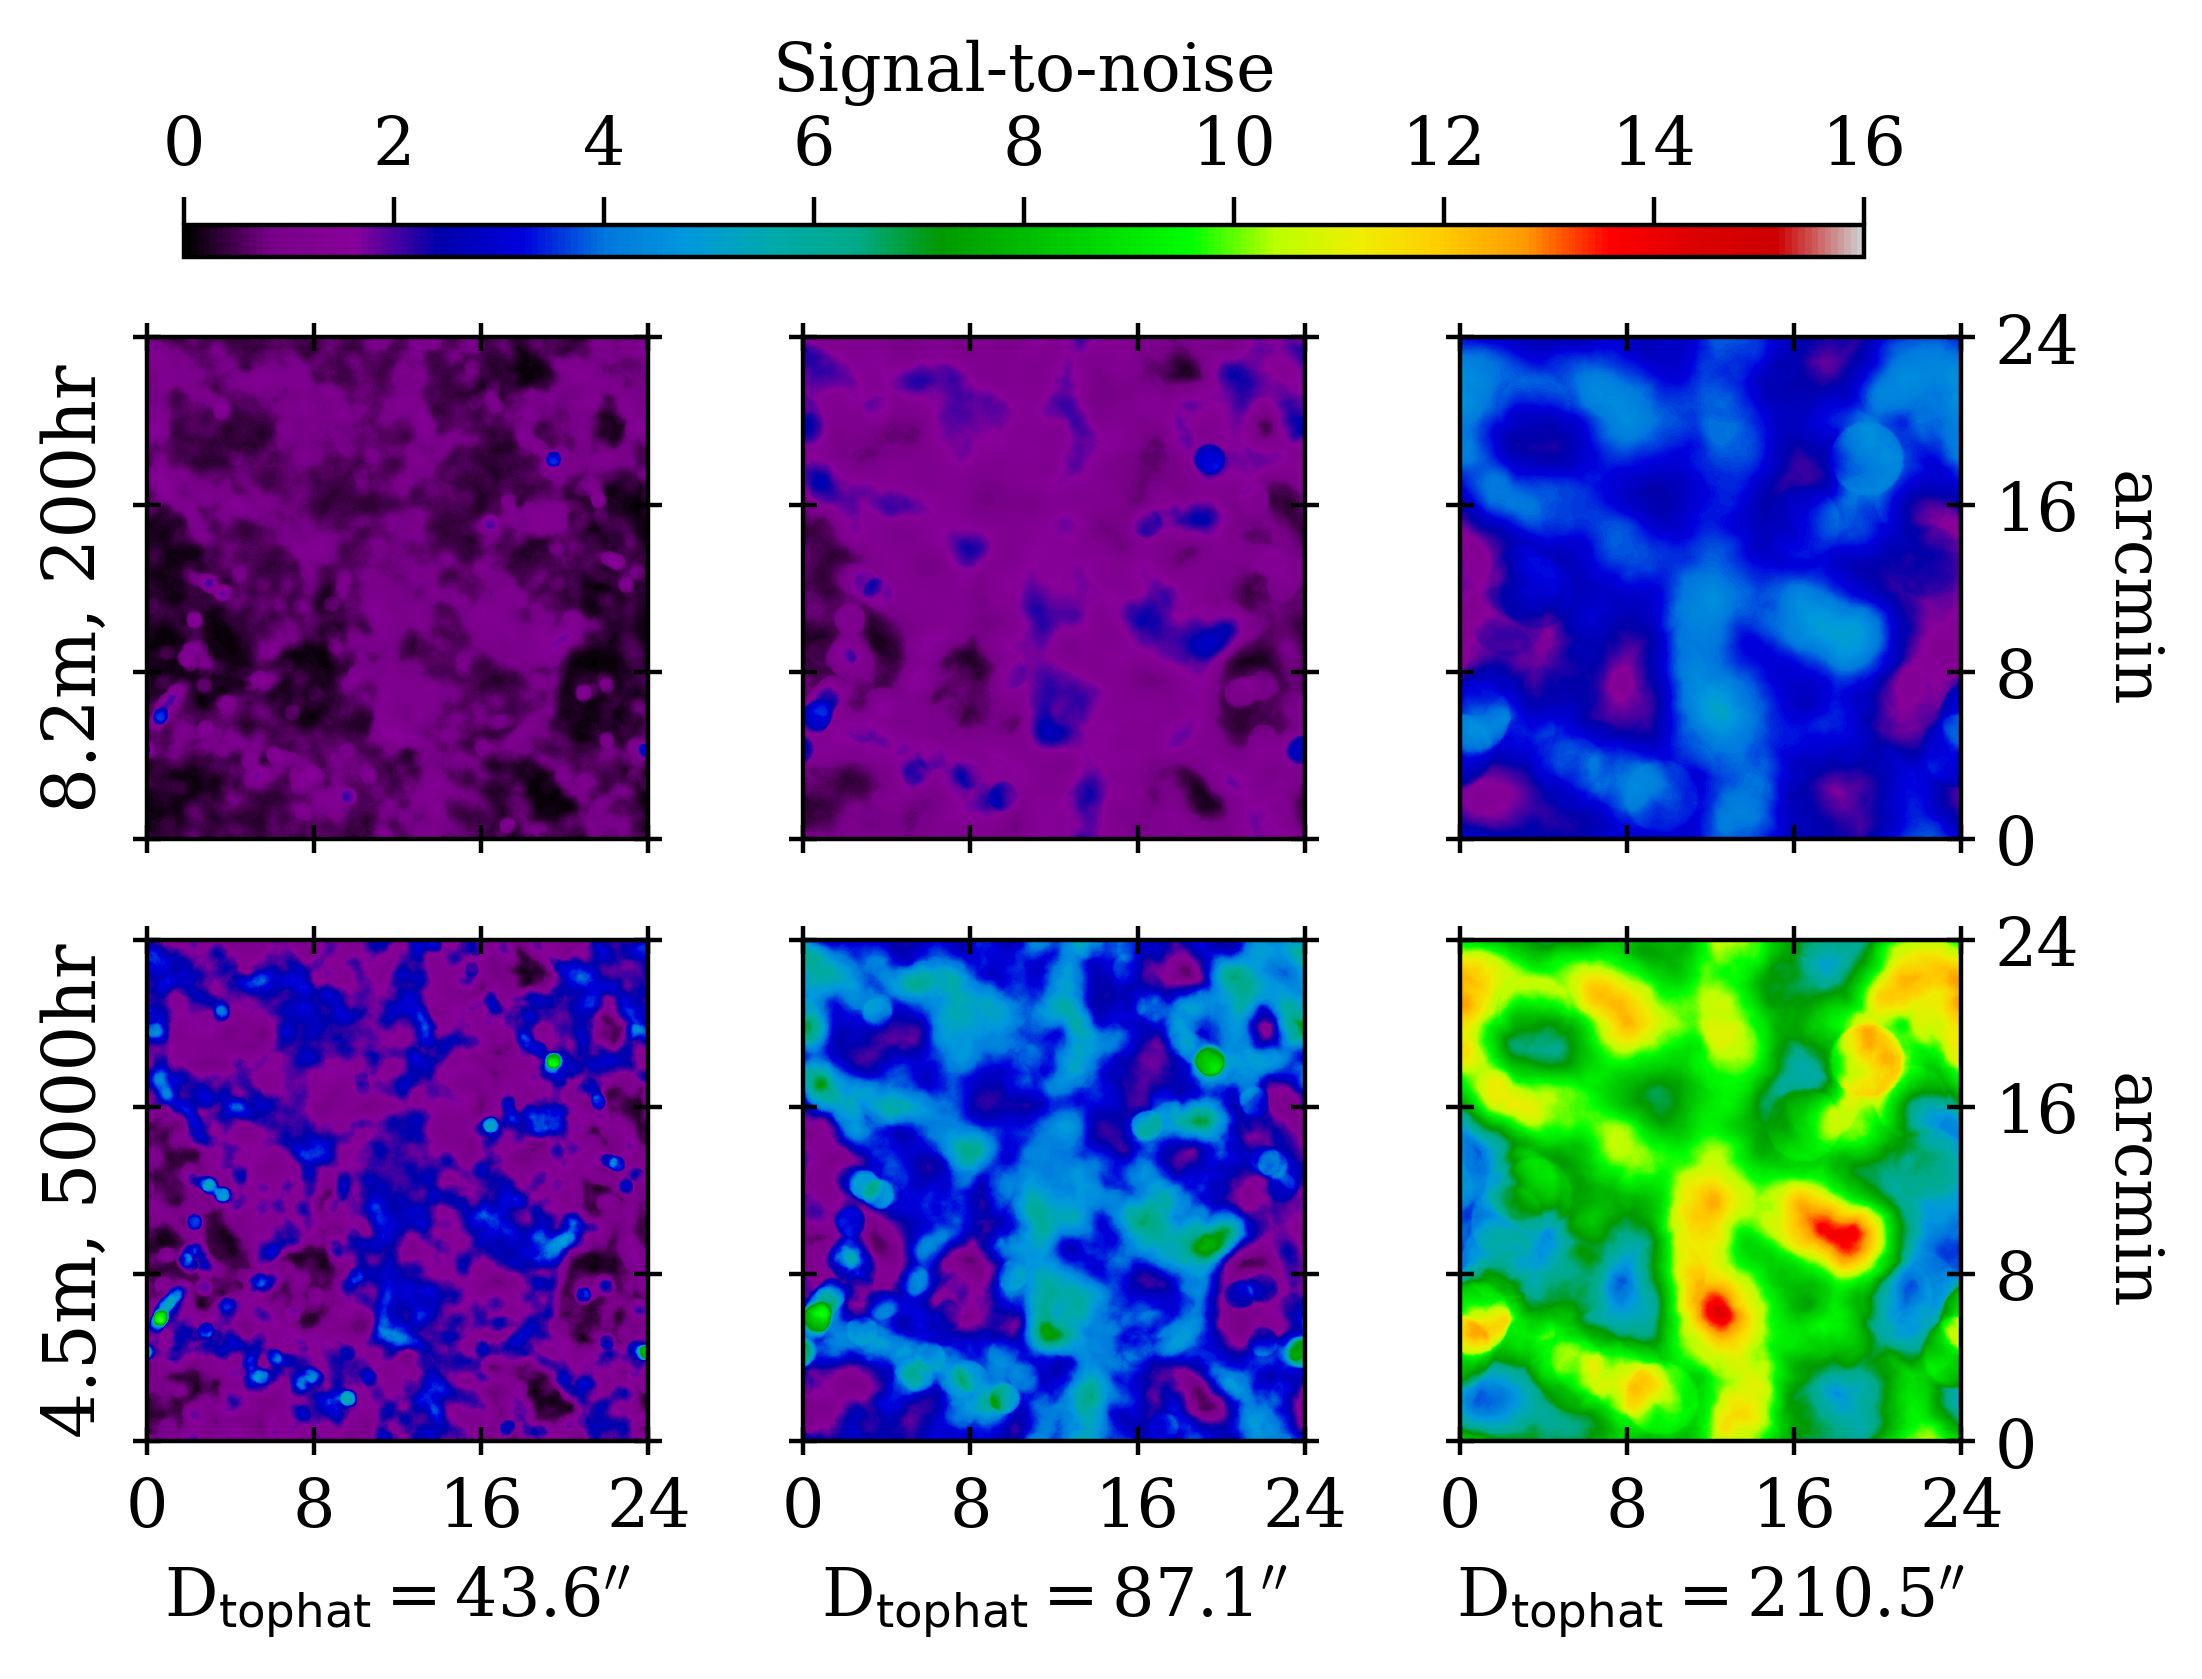
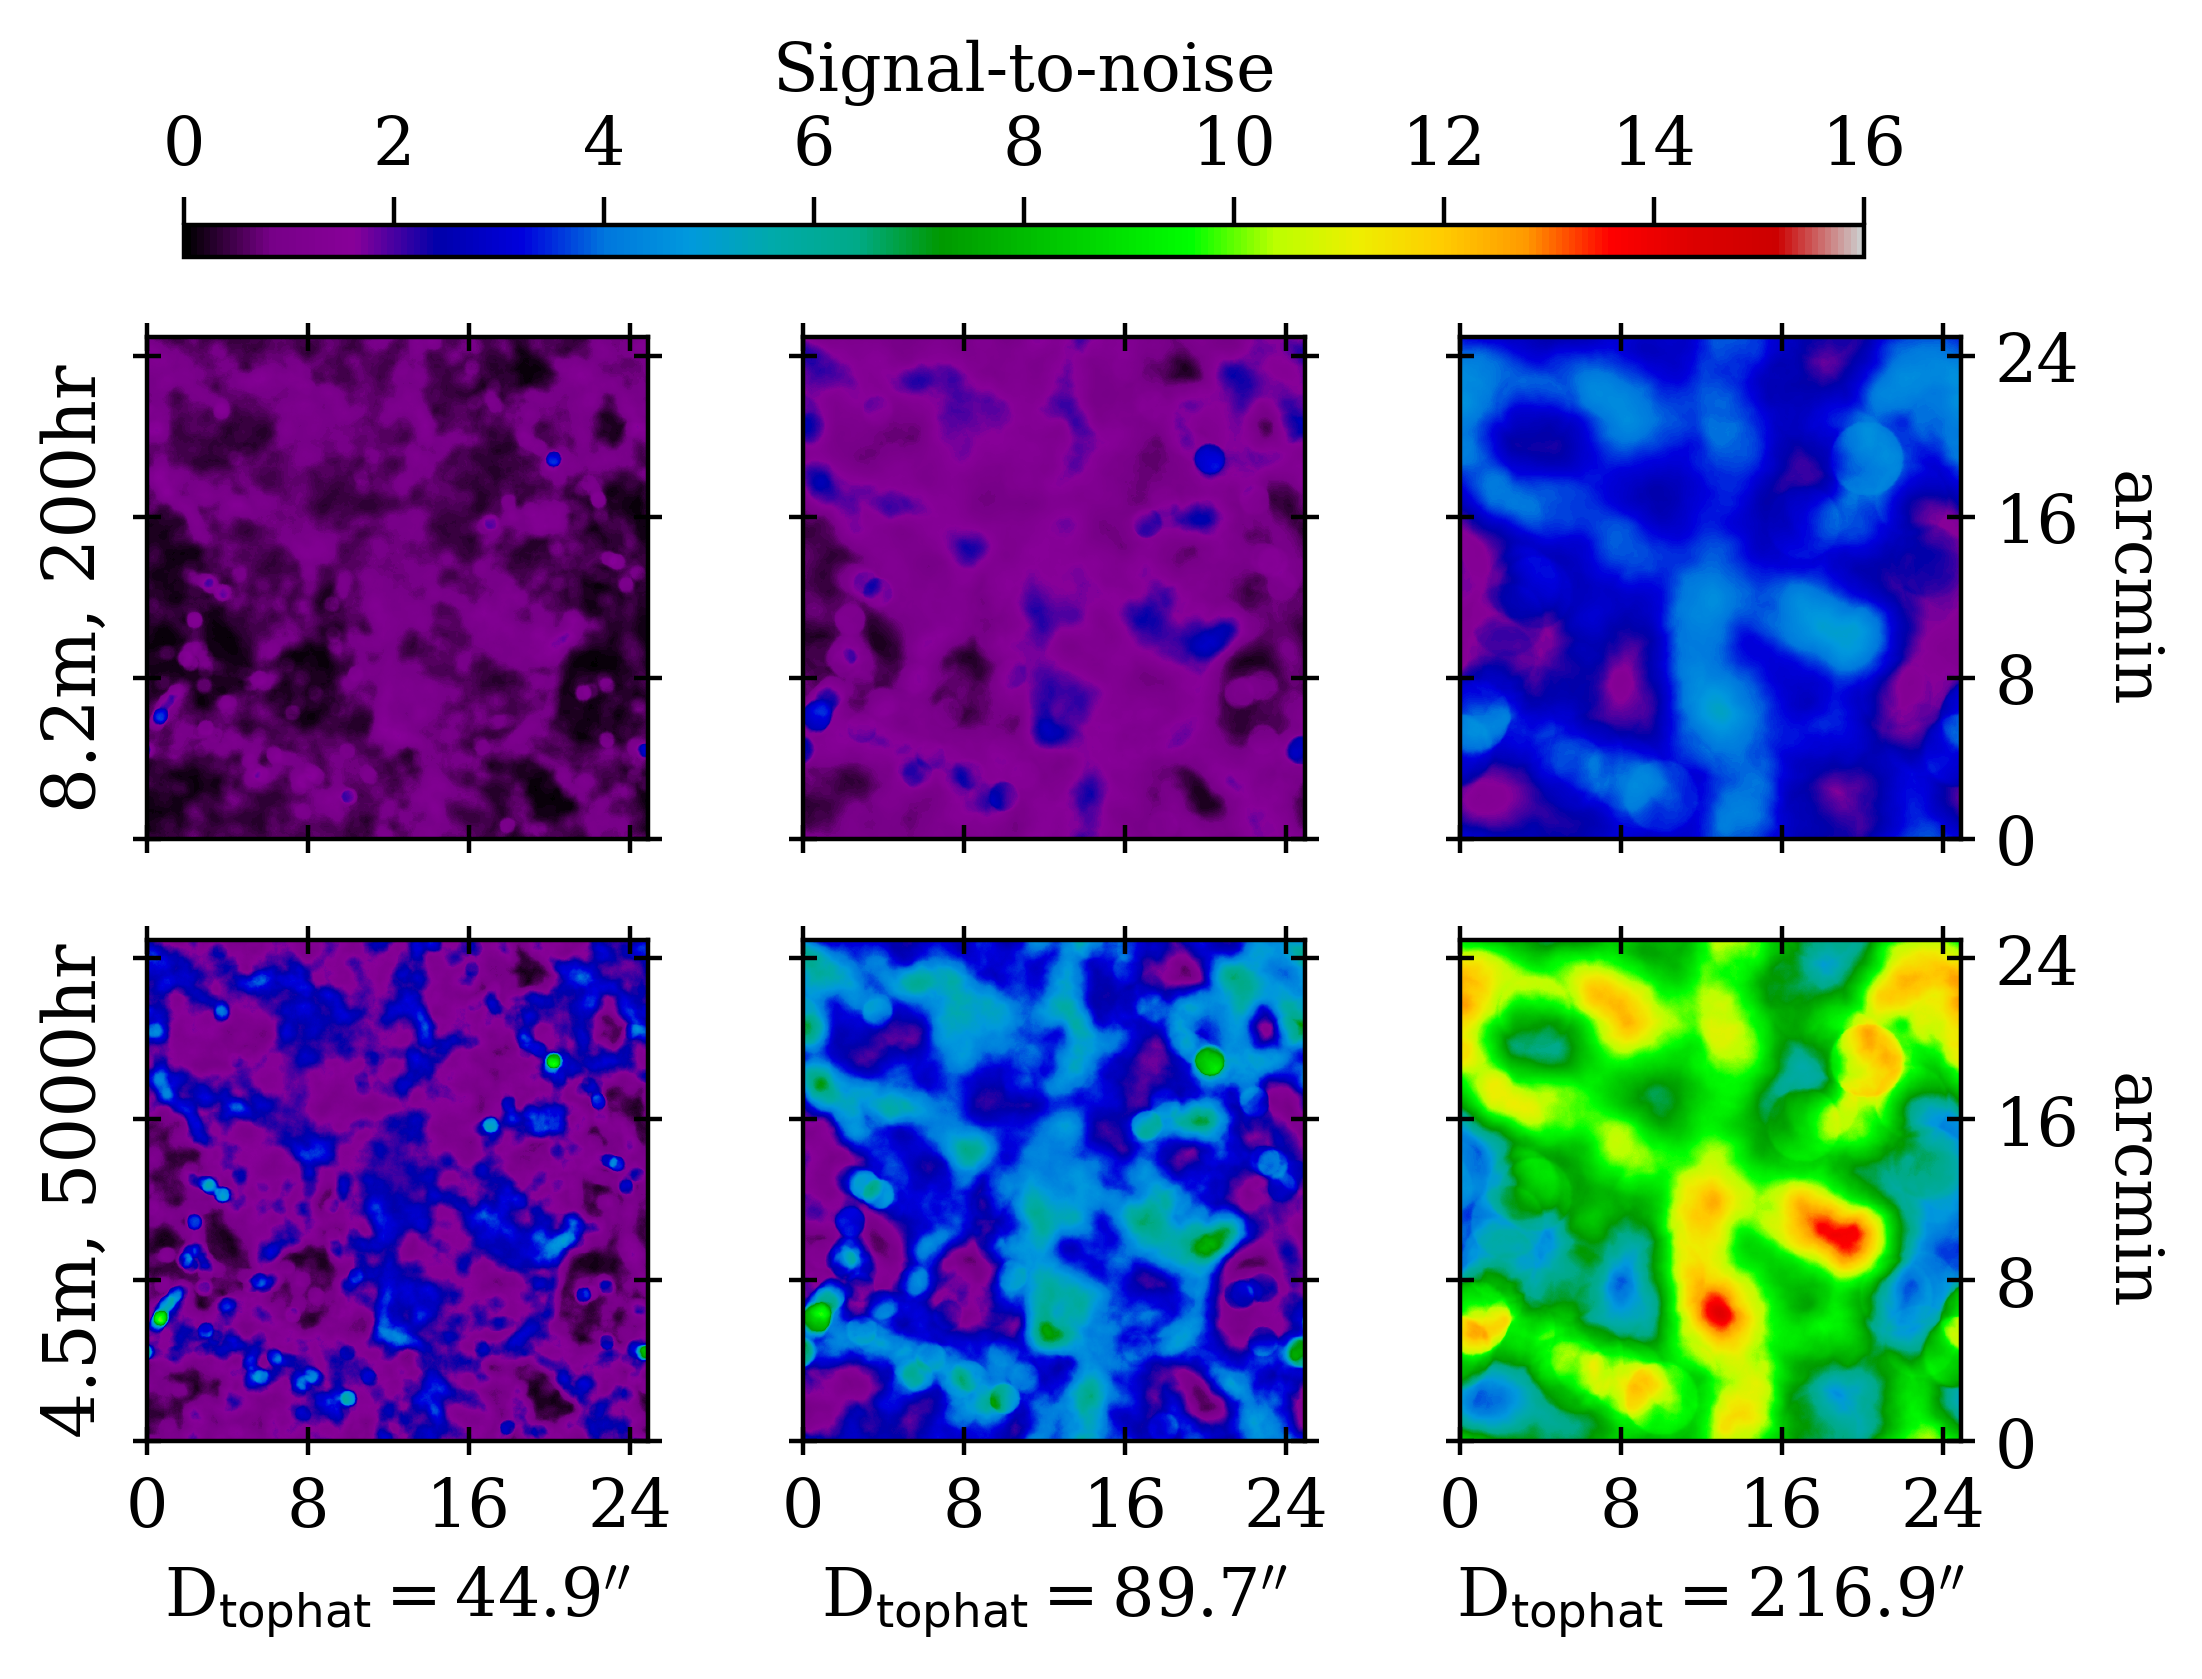
adding contours to some of the maps and increasing precision on pixel-to-arcsec conversion

diff --git a/mock18_binned_scopes.py b/mock18_binned_scopes.py
@@ -35,6 +35,7 @@ sim_depth = 40 #mpc/h
 index = int(nb_depth/sim_depth*Ngas+0.5)
 sr_to_arcsec2 = 4.25e+10
 cell_size = 40/Ngas*1000/0.68/(1+5.7)*3.086e+21
+pix_sz_arcsec = 3.7392
 
 #path for post-LyaRT SB with more rapid, hard alpha model
 dataCubeDir = "data/march/"
@@ -54,12 +55,18 @@ nrows = len(scope_list)
 fig,ax=plt.subplots(ncols=ncols,nrows=nrows,figsize=(8,4))
 
 #formatting for the plot
+
+pix_arr = np.linspace(0,Ngas-1,Ngas)
+theta_arcmin = pix_sz_arcsec*Ngas / 60
+theta_arr = np.linspace(0,theta_arcmin,Ngas)
+labels = [ 0,  8, 16, 24] #arcmin labels
+ticks = [int(np.interp(i,theta_arr,pix_arr)+0.5) for i in labels]
 for i in range(nrows):
     for j in range(ncols):
         ax[i,j].set_xlim(0,Ngas-1)
         ax[i,j].set_ylim(0,Ngas-1)
-        ticks = np.linspace(0,Ngas-1,4)
-        labels = np.asarray(np.linspace(0,24,4),int)
+        # ticks = np.linspace(0,Ngas-1,4)
+        # labels = np.asarray(np.linspace(0,24,4),int)
         ax[i,j].scatter(x=[Ngas/2],y=[Ngas/2],s=25,marker="+",color="red",alpha=0.5)
         ax[i,j].set_xticks(ticks=ticks)
         ax[i,j].set_xticklabels(labels)
@@ -90,6 +97,23 @@ for i in range(1,nrows): #scopes
         ax[i,j+1].imshow(background, cmap=cm.binary,origin='lower',vmin=vmin,vmax=vmax)
         print(f"(D,t) = ({D_m:.1f},{texp_hr:d}), Kernel: {kernels[j//2]:d}, vmin: {int(vmin):d}, vmax: {int(vmax):d}")
 
+### ADDING CONTOURS TO INTRINSIC MAPS
+dataCubePath_onlyIF = "data/sept2024/out_cube_Nphot600000.npy"
+D_m,texp_hr = scope_list[0]
+filter_kernel = 25
+np.random.seed(seed)
+_, intrinsic_onlyIF = make_mock_maps(dataCubePath=dataCubePath_onlyIF, D_m=D_m,texp_hr=texp_hr,
+            Ngas=Ngas,add_noise=False)
+min_pix_value = np.min(intrinsic_onlyIF)+0.01
+intrinsic_onlyIF += min_pix_value
+intrinsic_onlyIF = gaussian_filter(intrinsic_onlyIF, sigma=filter_kernel,mode='wrap')
+percentiles = [70, 90]
+levels = np.percentile(intrinsic_onlyIF, percentiles)
+# im0 = ax[0,0].imshow(intrinsic_onlyIF,origin='lower',cmap=cm.binary,
+#     vmin=np.percentile(intrinsic_onlyIF,1),vmax=np.percentile(intrinsic_onlyIF,95),extent=[0,24,0,24])
+# contours = ax[0,0].contour(intrinsic_onlyIF,levels=levels,extent=[0,24,0,24],linestyles=['--', '-'],colors='red')
+
+
 ### intrinsic maps (first row)
 for j in range(0,ncols,2):
     D_m,texp_hr = scope_list[0]
@@ -99,10 +123,18 @@ for j in range(0,ncols,2):
     intrinsic_map = gaussian_filter(signal_only, sigma=kernels[j//2],mode='wrap')
 
     ax[0,j].imshow(intrinsic_map, cmap=cm.binary,origin='lower')  #vmin and vmax don't matter. We just want a to visualize the intrinsic signal
+
+    # im = ax[0,j].imshow(intrinsic_onlyIF,origin='lower',cmap=cm.binary,
+    #     vmin=np.percentile(intrinsic_onlyIF,1),vmax=np.percentile(intrinsic_onlyIF,95))
+    contours = ax[0,j].contour(intrinsic_onlyIF,levels=levels,linestyles=['-.', '-'],colors='red',alpha=0.8,linewidths=0.5)
+
     fig.delaxes(ax[0, j+1])
 
+
+
+
 for j in range(0,ncols,2):
-    kernel_arcsec = kernels[j//2]*3.63 #pixel scale in arcsec
+    kernel_arcsec = kernels[j//2]*pix_sz_arcsec #pixel scale in arcsec
     x_start = 400  # x-coordinate for the start of the bracket
     y_start = 440    # y-coordinate for the start of the bracket
     x_end = x_start    # x-coordinate for the end of the bracket

diff --git a/SNR_binned_scopes.py b/SNR_binned_scopes.py
@@ -32,6 +32,14 @@ seed = 12346
 kernels = [5,10,25]
 im_list = []
 
+#formatting
+pix_sz_arcsec = 3.7392
+pix_arr = np.linspace(0,Ngas-1,Ngas)
+theta_arcmin = pix_sz_arcsec*Ngas / 60
+theta_arr = np.linspace(0,theta_arcmin,Ngas)
+labels = [ 0,  8, 16, 24] #arcmin labels
+ticks = [int(np.interp(i,theta_arr,pix_arr)+0.5) for i in labels]
+
 nrows = len(scope_list)
 ncols = len(kernels)
 
@@ -45,7 +53,7 @@ for i in range(nrows): #different kernels (2)
 
 
         radius = int(np.sqrt(2*np.log(2))*kernels[j]+0.5) #FWHM/2
-        FWHM_arcsec = radius*2*3.63
+        FWHM_arcsec = radius*2*pix_sz_arcsec
         ax[-1,j].set_xlabel(r"D$_\mathrm{tophat}=$"+f"{FWHM_arcsec:.1f}"+r"$''$")#,rotation=-90,labelpad=15)
 
         signal_only,pixels_in_kernel = convolve_with_circular_tophat(signal_only,radius=radius)
@@ -58,8 +66,8 @@ for i in range(nrows): #different kernels (2)
         #formatting
         ax[i,j].set_xlim(0,Ngas-1)
         ax[i,j].set_ylim(0,Ngas-1)
-        ticks = np.linspace(0,Ngas-1,4)
-        labels = np.asarray(np.linspace(0,24,4),int)
+        # ticks = np.linspace(0,Ngas-1,4)
+        # labels = np.asarray(np.linspace(0,24,4),int)
         ax[i,j].set_xticks(ticks=ticks)
         ax[i,j].set_xticklabels(labels)
         ax[i,j].set_yticks(ticks=ticks)

diff --git a/panels_large_map_other_models.py b/panels_large_map_other_models.py
@@ -129,9 +129,16 @@ for i in range(nrows):
 for j in range(1,ncols):
     ax[0,j].set_title(f"{model_names[j-1]}",fontsize=fontsize-3)
 
-#formatting and labeling
+#formatting
+pix_sz_arcsec = 3.7392
+pix_arr = np.linspace(0,Ngas*3-1,Ngas*3)
+theta_arcmin = pix_sz_arcsec*Ngas*3 / 60
+theta_arr = np.linspace(0,theta_arcmin,Ngas*3)
+labels = [ 0,  24, 48, 72] #arcmin labels
+ticks = [int(np.interp(i,theta_arr,pix_arr)+0.5) for i in labels]
+
 for i in range(nrows):
-    sigma_gauss_arcsec = sigma_gauss[i]*3.63 #pixel scale in arcsec
+    sigma_gauss_arcsec = sigma_gauss[i]*pix_sz_arcsec #pixel scale in arcsec
     text1 = r"$\sigma_g=$"+f"{sigma_gauss_arcsec:.1f}"+r"$''$"
     ax[i,-1].set_ylabel(text1,rotation=-90,labelpad=15,fontsize=fontsize-3)
     ax[i,-1].yaxis.set_label_position('right')
@@ -140,8 +147,8 @@ for i in range(nrows):
         ax[i,j].set_xlim(0,Ngas*3-1)
         ax[i,j].set_ylim(0,Ngas*3-1)
 
-        ticks = np.linspace(0,Ngas*3-1,4)
-        labels = np.asarray(np.linspace(0,24*3,4),int)
+        # ticks = np.linspace(0,Ngas*3-1,4)
+        # labels = np.asarray(np.linspace(0,24*3,4),int)
         ax[i,j].set_xticks(ticks=ticks)
         ax[i,j].set_xticklabels(labels)
         ax[i,j].set_yticks(ticks=ticks)

diff --git a/panels_large_map.py b/panels_large_map.py
@@ -133,8 +133,17 @@ im_list[2][2].set_clim(vmin=44, vmax=11582)
 for j in range(1,ncols):
     ax[0,j].set_title(f"{model_names[j-1]}\n{apertures[j-1]:.1f}m, {exposure_times[j-1]:d}hr",fontsize=fontsize-3)
 
+
+#formatting
+pix_sz_arcsec = 3.7392
+pix_arr = np.linspace(0,Ngas*3-1,Ngas*3)
+theta_arcmin = pix_sz_arcsec*Ngas*3 / 60
+theta_arr = np.linspace(0,theta_arcmin,Ngas*3)
+labels = [ 0,  24, 48, 72] #arcmin labels
+ticks = [int(np.interp(i,theta_arr,pix_arr)+0.5) for i in labels]
+
 for i in range(nrows):
-    kernel_arcsec = kernels[i]*3.63 #pixel scale in arcsec
+    kernel_arcsec = kernels[i]*pix_sz_arcsec #pixel scale in arcsec
     ax[i,-1].set_ylabel(r"$\sigma=$"+f"{kernel_arcsec:.1f}"+r"$''$",rotation=-90,labelpad=15)
 
     ax[i,-1].yaxis.set_label_position('right')
@@ -143,8 +152,8 @@ for i in range(nrows):
         ax[i,j].set_xlim(0,Ngas*3-1)
         ax[i,j].set_ylim(0,Ngas*3-1)
 
-        ticks = np.linspace(0,Ngas*3-1,4)
-        labels = np.asarray(np.linspace(0,24*3,4),int)
+        # ticks = np.linspace(0,Ngas*3-1,4)
+        # labels = np.asarray(np.linspace(0,24*3,4),int)
         ax[i,j].set_xticks(ticks=ticks)
         ax[i,j].set_xticklabels(labels)
         ax[i,j].set_yticks(ticks=ticks)

diff --git a/functions.py b/functions.py
@@ -81,7 +81,7 @@ def make_mock_maps(dataCubePath,D_m,texp_hr,Ngas,add_noise):
 	pkpc_per_arcsec = 5.87
 	pix_sz_ckpc     = pix_sz_hinvckpc / h
 	pix_sz_pkpc     = pix_sz_ckpc / (1+z)
-	pix_sz_arcsec   = pix_sz_pkpc / pkpc_per_arcsec   # 3.63
+	pix_sz_arcsec   = pix_sz_pkpc / pkpc_per_arcsec   
 	pix_sz_arcsec2  = pix_sz_arcsec**2
 
 	# Comoving length corresponding to filter
@@ -161,13 +161,13 @@ def make_mock_maps2(I_ifront,D_m,texp_hr,Ngas,add_noise):
 	# Observed HSC NB0816: Ndot_sky ~ 3 counts/s/pixel = 140 counts/s/arcsec2
 
 	# Pixels size
-	pix_sz_hinvckpc = 100
+	pix_sz_hinvckpc = 100 #40 / 400 *1000 = 100
 	h               = 0.68
 	z               = 5.7
 	pkpc_per_arcsec = 5.87
 	pix_sz_ckpc     = pix_sz_hinvckpc / h
 	pix_sz_pkpc     = pix_sz_ckpc / (1+z)
-	pix_sz_arcsec   = pix_sz_pkpc / pkpc_per_arcsec   # 3.63
+	pix_sz_arcsec   = pix_sz_pkpc / pkpc_per_arcsec   # 3.73
 	pix_sz_arcsec2  = pix_sz_arcsec**2
 
 	# Total number of I-front photons collected per pixel
